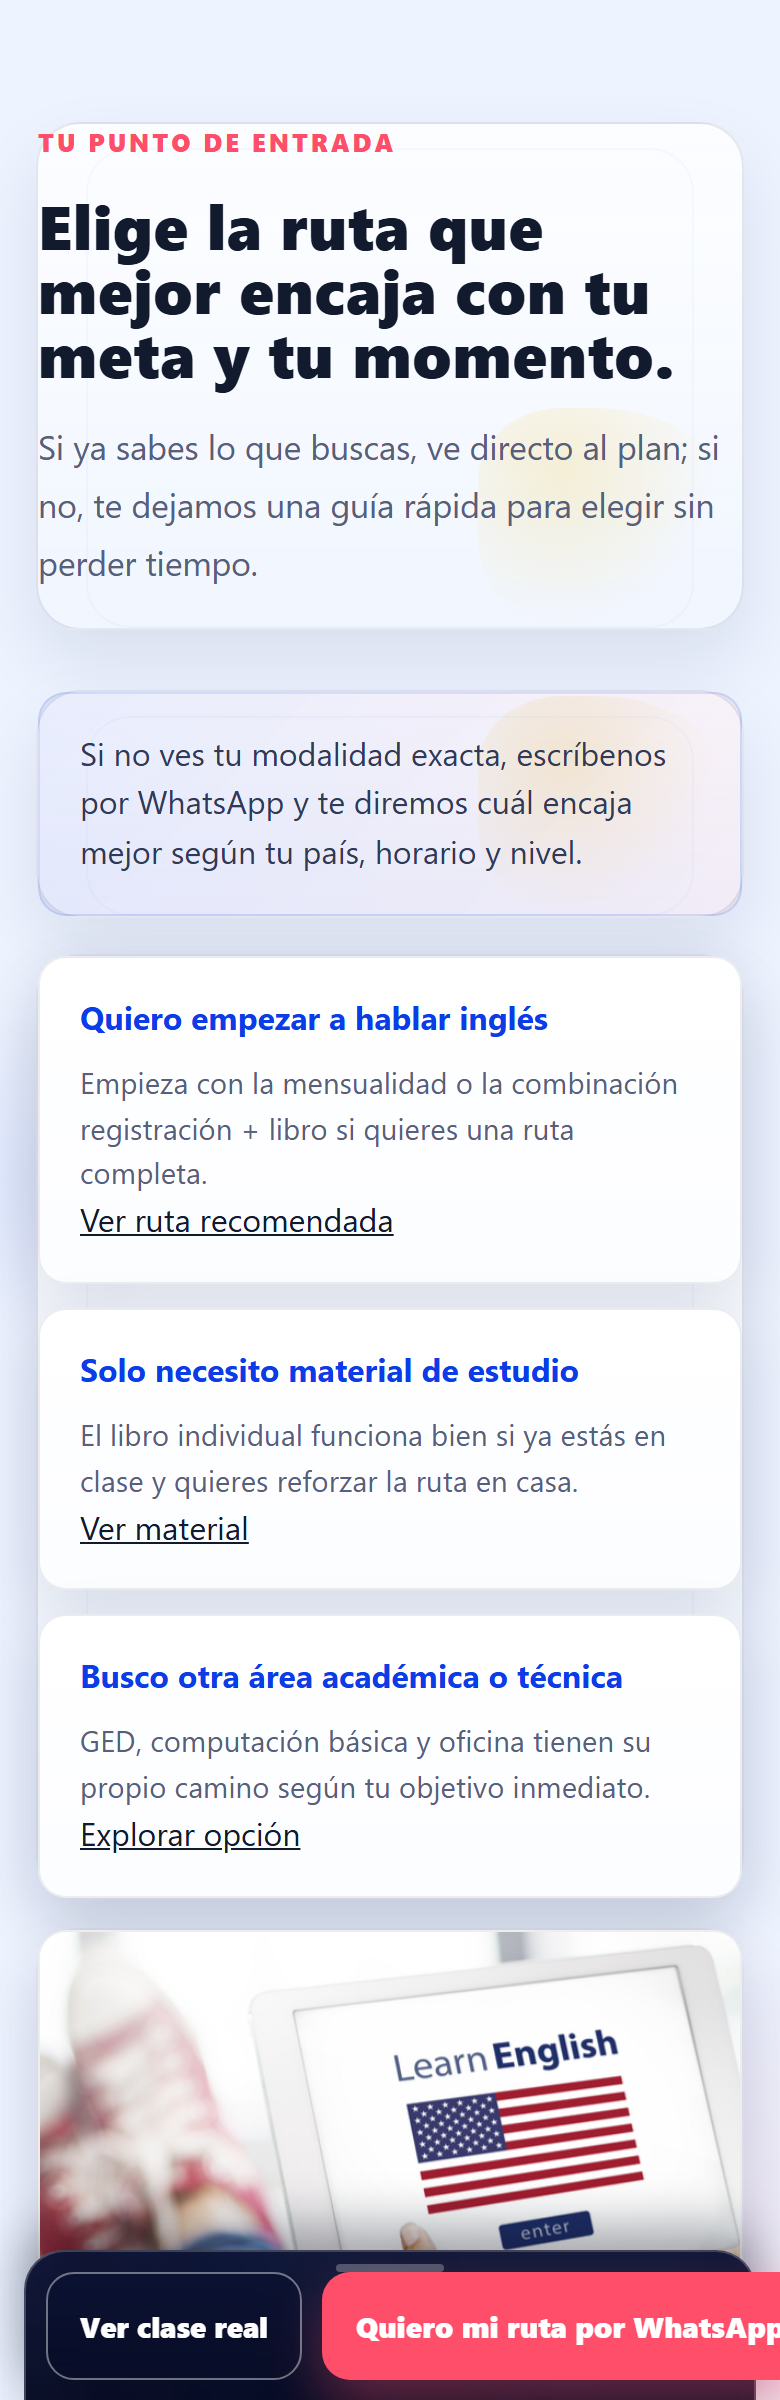
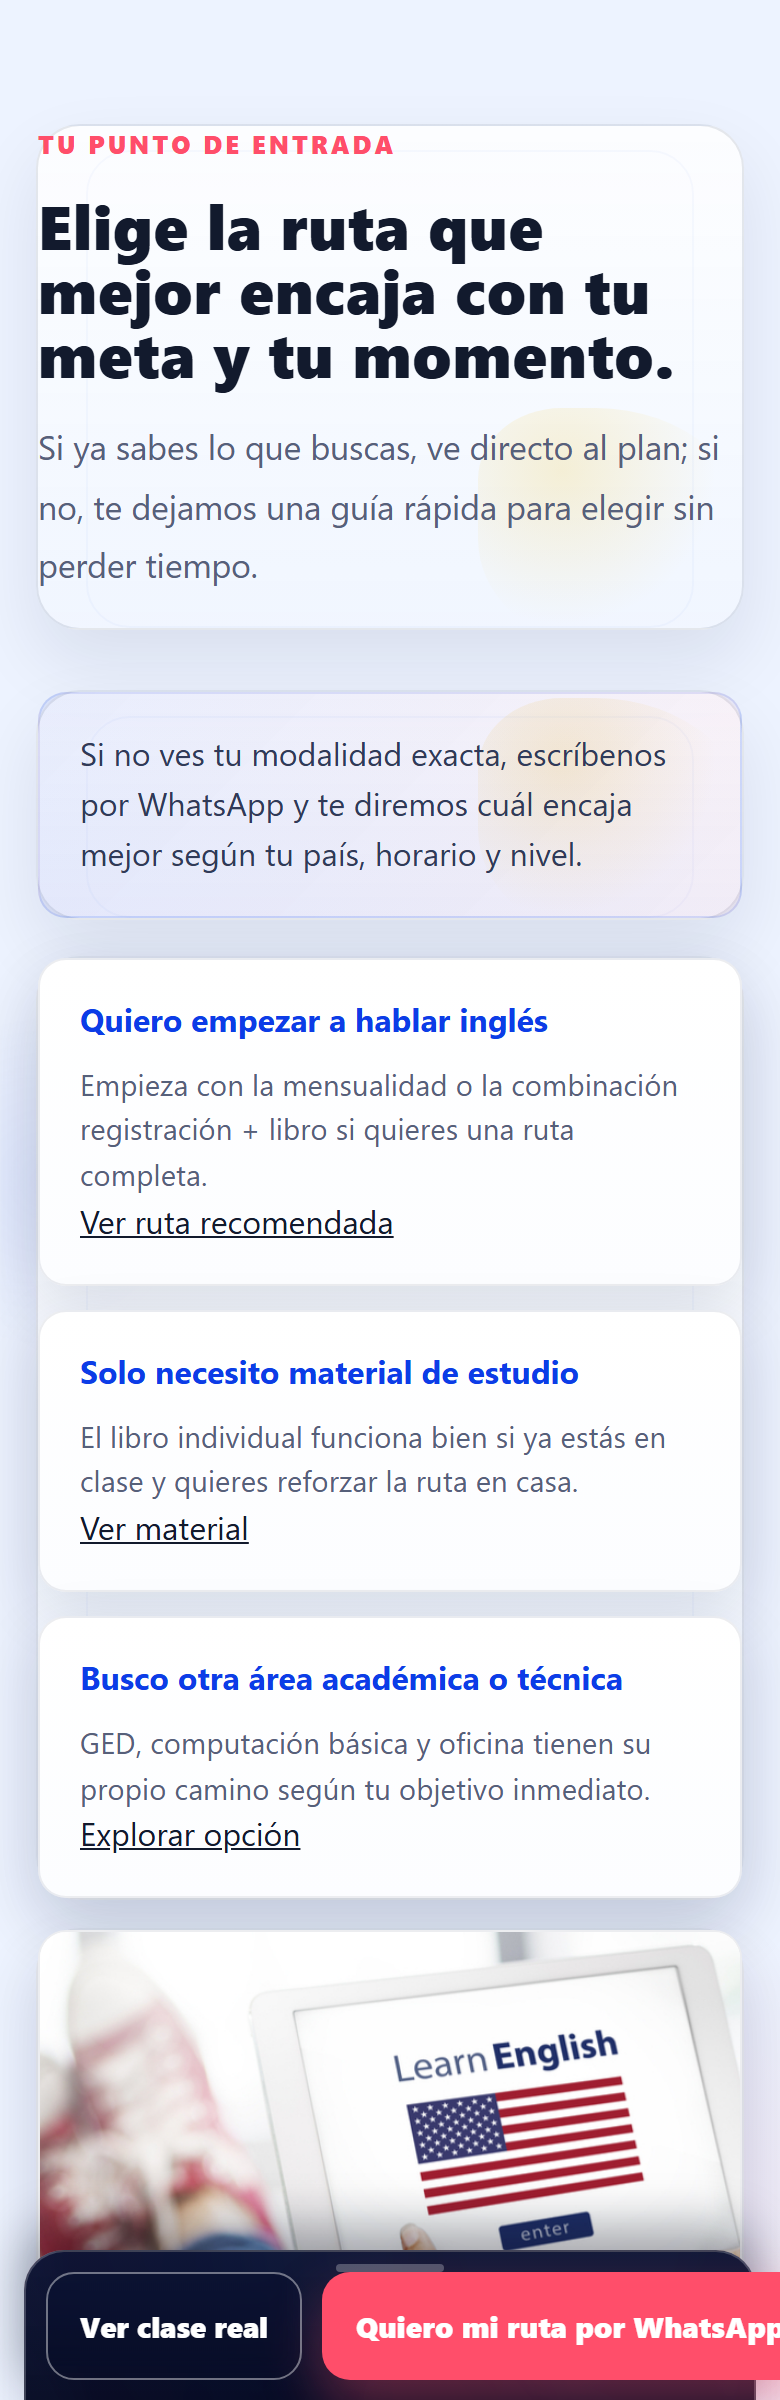
Polish hero copy and route live teacher media locally

diff --git a/src/content.js b/src/content.js
@@ -5,21 +5,21 @@ const site = {
   name: "AiT USA Institute",
   legal: "Division of Arrieta Institute LLC",
   tagline:
-    "Mira una clase real en 1:08 y decide con evidencia si esta ruta es para ti.",
+    "Mira una clase real en 1:08 y decide con evidencia si esta ruta te conviene hoy.",
   description:
     "Mira una clase real de inglés y decide en minutos si nuestro método, ritmo y seguimiento encajan con tus metas, tu tiempo y tu objetivo.",
   heroHeadline:
-    "¿Te sirve esta ruta? Mira una clase real de 1:08 y decide con evidencia.",
+    "¿Te sirve esta ruta? Mira una clase real de 1:08 y valida si esta es tu mejor opción.",
   heroLead:
-    "Conoce el aula real: corrección en vivo, metodología visual y seguimiento semanal para convertir comprensión en conversación útil esta semana.",
+    "Conoce una clase real sin filtros: corrección en vivo, método visual y seguimiento semanal para pasar de entender a hablar con más confianza.",
   heroQuote:
     "Lo que ves es la clase real: conversación auténtica, feedback inmediato y práctica aplicada en vivo desde el primer minuto.",
   heroMicrocopy:
-    "Reprodúcela, mira el nivel de seguimiento y decide en 60 segundos si este formato te sirve hoy.",
+    "Reprodúcela, compara modalidades y decide hoy si este formato te encamina a resultados claros.",
   heroQuickCapture: {
-    title: "Revisa tu ruta inicial en 60 segundos",
+    title: "Tu ruta inicial en 60 segundos",
     copy:
-      "Déjanos tu nombre y WhatsApp y te enviamos una ruta inicial clara en 60 segundos: objetivo, formato y horario para empezar.",
+      "Déjanos tu nombre y WhatsApp y te enviamos una ruta inicial en 60 segundos: objetivo, formato y horario.",
     options: [
       "Validar método y estilo con una clase real de 1:08",
       "Comparar presencial, híbrido y online con mi agenda",
@@ -28,12 +28,12 @@ const site = {
       "Empezar esta semana",
     ],
     button: "Recibir mi ruta inicial",
-    note: "Sin costo ni compromiso. En 15 minutos te compartimos una ruta inicial concreta y honesta.",
+    note: "Sin costo ni compromiso. En 10-15 minutos te compartimos una ruta inicial concreta y honesta.",
   },
   heroHighlights: [
     "Clase real desde el primer minuto para validar método, ritmo y estilo.",
     "Compara presencial, híbrido y online de forma realista y sin suposiciones.",
-    "Recibe un plan de arranque y empieza con más claridad esta semana.",
+    "Recibe un plan de arranque y empieza con más claridad hoy.",
   ],
   canonical: "https://www.aitusainstitute.com/",
   founded: "2004",
@@ -117,8 +117,8 @@ const site = {
     contact: asset("153-f0e785-fd00796923204eefa8fc070811dd7598f000.jpg"),
     headset: asset("169-audifono-y-microfono.jpg"),
     devices: asset("171-laptop-and-phonhe-3.jpg"),
-    testimonialAntonina: assetHires("testimonial-antonina-1200.jpg"),
-    testimonialMarisol: assetHires("testimonial-marisol-1200.jpg"),
+    testimonialAntonina: asset("live/testimonial-antonina-live.jpg"),
+    testimonialMarisol: asset("live/testimonial-marisol-live.jpg"),
     productEuropa: asset("products/product-europa-mes-4weeks.jpg"),
     productLibro: asset("products/product-libro.jpg"),
     productRegistrationBook: asset("products/product-registracion-y-libro.jpg"),
@@ -145,15 +145,15 @@ const nav = [
 ];
 
 const heroPoints = [
-  "Clase real de 1:08 para validar método, ritmo y encaje antes de invertir tiempo.",
+  "Clase real de 1:08 para validar método, ritmo y encaje antes de invertir en una ruta.",
   "Ruta inicial visual para entrevistas, trabajo y vida diaria desde esta semana.",
-  "Acompañamiento práctico para avanzar incluso con agenda ocupada.",
+  "Seguimiento semanal para mantener práctica constante aunque tu agenda esté llena.",
 ];
 const heroHighlights = site.heroHighlights || [];
 
 const heroVideoHighlights = [
   "Clase real en 1:08 con corrección en vivo",
-  "Audio e imagen nítidos para evaluar la dinámica de clase",
+  "Audio e imagen nítidos para evaluar tu experiencia de clase",
   "Corrección instantánea + seguimiento semanal",
   "Sin costo de consulta inicial",
   "Presencial, híbrido y online en Nueva Jersey",
@@ -457,9 +457,9 @@ const heroGallery = [
   {
     label: "Seguimiento con presencia",
     title: "Docentes bilingües corrigen en vivo para que avances con menos incertidumbre.",
-    image: assetHires("hero-female-teacher.jpg"),
+    image: asset("live/hero-female-teacher.jpg"),
     video: site.images.heroVideo,
-    videoPoster: assetHires("hero-female-teacher.jpg"),
+    videoPoster: asset("live/hero-female-teacher.jpg"),
     imageAlt:
       "Instructora de AiT USA corrigiendo y motivando a una estudiante durante conversación oral.",
   },
